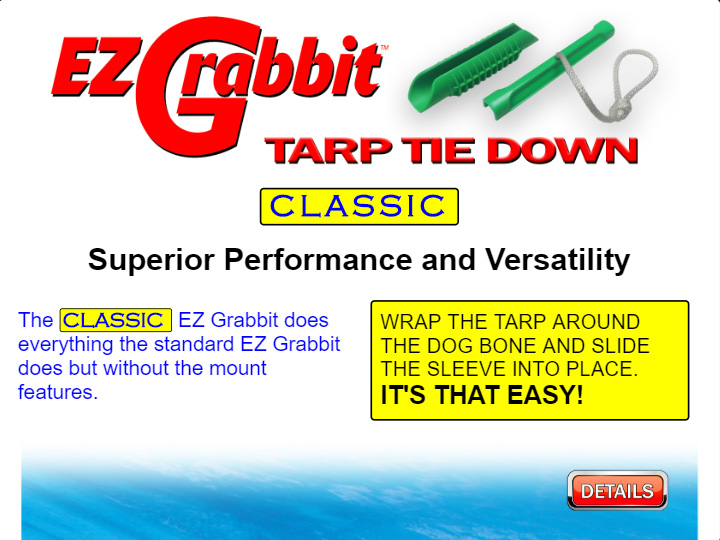
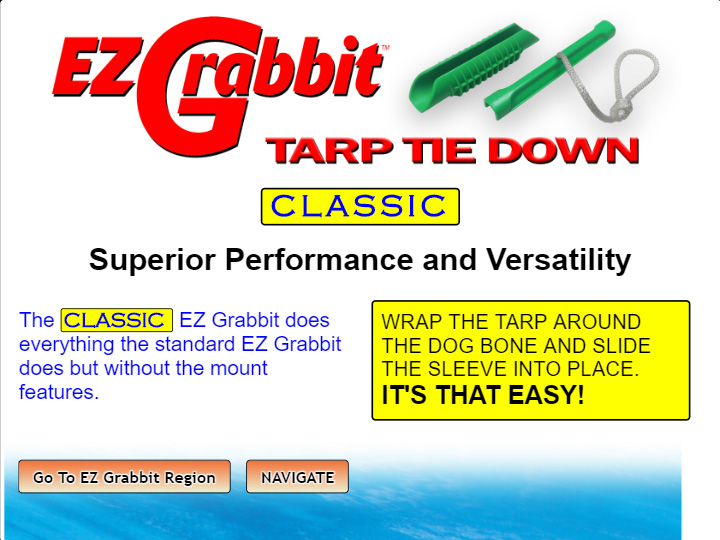
content add/edit and configure of view09 - classic EZ Grabbit

diff --git a/components/components08_11/tmpl_09/viewTmpl_09.html b/components/components08_11/tmpl_09/viewTmpl_09.html
@@ -1,44 +1,6 @@
-<style>
-#divA
-{
-font-size:1em;
-}    
+<link rel="stylesheet" type="text/css" href="css/vn-templateStyle1.css">
 
-.textStyle1
-{
-font-family:arial; 
-font-weight:bold; 
-color:black;
-}
-
-.textStyle2
-{
-font-family: 'Franklin Gothic Medium', 'Franklin Gothic', 'ITC Franklin Gothic', Arial, sans-serif;   
-color:red;
-}
-
-.textStyle3
-{
-font-family: 'Arial Rounded MT Bold', 'Helvetica Rounded', Arial, sans-serif;    
-}
-
-.textStyle4
-{
-font-family: Copperplate, 'Copperplate Gothic Light', fantasy;    
-}
-
-.imageStyle1:hover
-{
-background-color:black; 
-border-radius:10px;
-box-shadow: 1px 1px 15px #CCEDF2, 1px -1px 15px #CCEDF2, -1px 1px 15px #CCEDF2, -1px -1px 15px #CCEDF2,
-            1px 1px 25px #EAE2BB, 1px -1px 25px #EAE2BB, -1px 1px 25px #EAE2BB, -1px -1px 25px #EAE2BB,
-            1px 1px 25px #EAE2BB, 1px -1px 25px #EAE2BB, -1px 1px 25px #EAE2BB, -1px -1px 25px #EAE2BB;
-}
-    
-</style>
-
-<div id="divA">
+<div>
 <!-- Response Section 1 ************************************************************************************************************************************************-->
     <div style="text-align:center;">
         <img src="components/components08_11/tmpl_09/ttd-vn-ezg-logo-w-grn-device-1500x400.png" 
@@ -85,7 +47,7 @@ box-shadow: 1px 1px 15px #CCEDF2, 1px -1px 15px #CCEDF2, -1px 1px 15px #CCEDF2, 
                         color:blue;
                         {{$ctrl.rs2paddingright}};          /* AR_30.00_10.00 */
                        ">
-                The <span   class="textStyle4" 
+                The <span   class="textStyle5" 
                             style= "font-weight:bold; 
                                     background-color:yellow; 
                                     border:1px solid black; 
@@ -109,34 +71,63 @@ box-shadow: 1px 1px 15px #CCEDF2, 1px -1px 15px #CCEDF2, -1px 1px 15px #CCEDF2, 
 
 <!-- Response Section 3 ************************************************************************************************************************************************-->
     <div style="position:relative;
-                left:2.5%;
+                {{$ctrl.rs3fontsize1}};
                 ">
-        <!--src="https://www.tarptiedown.com/resources/ttd-vn-ezg-tarp-arc-1400x1400.jpg" -->
         <img    src="components/components08_11/tmpl_09/ttd-vn-ezg-keebler-1200x1020.jpg" 
-                alt="EZ Grabbit Tarp Tie Down Official Logo" 
-                title="EZ Grabbit Logo with Device" 
+                alt="EZ Grabbit Tarp Tie Down Composite with Keebler Pass backgrpund" 
+                title="EZ Grabbit Tarp Tie Down Composite with Keebler Pass backgrpund" 
                 style=" width:95%;"> 
-        <div style="position:absolute; 
-                    
-                    {{$ctrl.rs3positiontop1}}; /* AR_50_20*/
-                    /*top:20px;   */
-                    {{$ctrl.rs3positionleft1}};    /* AR_80_70 */
-                    /*left:70%;   */
-                    z-index:2;
-                    ">
-            
-            <a href="https://www.tarptiedown.com/ttd-vn/ttd-vn-ezg/index-ezg.html"> 
-                <img src="https://tarptiedown.com/resources/ttd-vn-button3-300x120.png"
-                     alt="button" 
-                     title="EZ Grabbit applications, specs, prices, videos, etc."
-                     class="imageStyle1"
-                     style="{{$ctrl.rs3width1}};     /* AR_150_70 */
-                            ">  
+        
+        
+        <div style="position:absolute;
+                    left:2%;
+                    {{$ctrl.rs3top1}};
+                   ">
+            <a  href="https://www.tarptiedown.com/ttd-vn/ttd-vn-ezg/index-ezg.html#/intro"
+                class="btnStyle2"
+                style= "{{$ctrl.rs3padding1}};
+                        text-decoration:none;
+                        font-weight:bold;
+                       "
+               > Go To EZ Grabbit Region
+                
             </a>
-            
-        </div>
-            
-    </div>    
+            <div class="btnStyle2" 
+                 ng-click="$ctrl.moreless2()"
+                 style="{{$ctrl.rs3padding1}};
+                        {{$ctrl.rs3marginleft1}};
+                        font-weight:bold;
+                       ">
+                     {{$ctrl.morelessText2}}
+            </div>
+            <div class="textBoxStyle2 textStyle3"
+                 ng-show="$ctrl.display2">
+                 
+                <table  style= "width:100%;">
+                    <tr><td><u>SELECTION</u>&nbsp;&nbsp;&nbsp;&nbsp;&nbsp;&nbsp;</td>
+                        <td><u>DESTINATION</u>
+                            <span   class= "youAreHere2">
+                                &nbsp;&nbsp;you are here&nbsp;&nbsp;
+                            </span>
+                        </td>
+                    </tr>
+                    <tr class="topMenuNav">  <td class="tdStyle">TTD Intro          </td><td class="tdStyle">Tarp Tie Down Home & intro </td></tr>
+                    <tr class="topMenuNav">  <td class="tdStyle">Price/Buy          </td><td class="tdStyle">Product pricing and store  </td></tr>
+                    <tr class="topMenuNav">  <td class="tdStyle">Products           </td><td class="tdStyle">Tarp Tie Down products     </td></tr>
+                    <tr class="topMenuNav">  <td class="tdStyle">Reviews            </td><td class="tdStyle">Customer feedback          </td></tr>
+                    <tr class="hyperMenuNav"><td class="tdStyle">Button A  Thumb 1  </td><td class="tdStyle">Standard EZ Grabbit        </td></tr>
+                    <tr class="hyperMenuNav"><td class="tdStyle">Button A  Thumb 2  </td><td class="tdStyle">Long Grabbit               </td></tr>
+                    <tr class="hyperMenuNav"><td class="tdStyle">Button A  Thumb 3  </td><td class="tdStyle">Mini Grabbit               </td></tr>
+                    <tr class="hyperMenuNav"><td class="tdStyle">Button A  Thumb 4  </td><td class="tdStyle">EZ Adjust Rope Adjuster    </td></tr>
+                    <tr class="hyperMenuNav"><td class="tdStyle">Button B  Thumb 1  </td><td class="tdStyle">RockBuster Ground Stake    </td></tr>
+                    <tr class="hyperMenuNav"><td class="tdStyle">Button B  Thumb 2  </td><td class="tdStyle">Bag Grabbit Bag Handle     </td></tr>
+                    <tr class="hyperMenuNav"><td class="tdStyle">Button B  Thumb 3  </td><td class="tdStyle">The EZ Grabbit Keeper      </td></tr>
+                    <tr class="hyperMenuNav"><td class="tdStyle">Button B  Thumb 4  </td><td class="tdStyle">Carry/Duffle Bag           </td></tr>
+                    <tr class="hyperMenuNav"><td class="tdStyle">Button C  Thumb 1  </td><td class="tdStyle">Tent Poles                 </td></tr>
+                    <tr class="youAreHere">  <td class="tdStyle">Button C  Thumb 2  </td><td class="tdStyle">Classic EZ Grabbit         </td></tr>
 
-     
+                </table>
+            </div>  
+        </div>
+    </div>    
 </div>

diff --git a/components/components08_11/components08_11.js b/components/components08_11/components08_11.js
@@ -76,10 +76,25 @@ angular.module('viewNav')
             self09.rs2fontsize3 = "font-size:" + ((0.00165)*(viewWidth) + 0.07294) + "em";
             
             // Response Section 3
-            self09.rs3positiontop1 = "top:" + ((0.03704)*(viewWidth)+6.66667) + "px";
-            self09.rs3positionleft1 = "left:" + ((0.01235)*(viewWidth)+65.55556) + "%";
-            self09.rs3width1 = "width:" + ((0.09877)*(viewWidth)+34.44444) + "px";
+            // AR Response Section 3
+            self09.rs3fontsize1 = "font-size:" + ((0.00095)*(viewWidth)+0.38778) + "em";        /* AR_1.50_0.73 */
+            self09.rs3top1 = "top:" + ((0.01852)*(viewWidth)+8.33333) + "px";                   /* AR_30.00_15.00 */      
+            self09.rs3marginleft1= "margin-left:" + ((0.01852)*(viewWidth)-1.66667) + "px";     /* AR_20.00_5.00 */
+            self09.rs3padding1 = "padding:" + ((0.00617)*(viewWidth)+2.77778) + "px " + ((0.01235)*(viewWidth)+5.55556) + "px";    /* AR_10.00_5.00 */ /* AR_20.01_10.00 */
             
+            // Sets mode of the "NAVIGATE" button
+            self09.display2 = false;
+            self09.morelessText2 = "NAVIGATE";
+            self09.moreless2 = function(){
+                if(self09.morelessText2 === "NAVIGATE"){
+                    self09.morelessText2 = "HIDE NAVIGATE";
+                    self09.display2 = true;
+                } 
+                else {
+                    self09.morelessText2 = "NAVIGATE";
+                    self09.display2 = false;
+                }
+            };
             
             compFactory.logView(09);
         }]

diff --git a/controller-client.js b/controller-client.js
@@ -289,7 +289,7 @@ angular.module('viewNav')
 //***********************************************************************************************************************************************************            
 // $state.go('some-view') loads the desired view as the default view upon load               
         var stateGo = (function(){    
-            $state.go('view08');
+            $state.go('view09');
 /*             
                 // Use this setTimeout if intializing with a template. If you initialize with a template only the first thumbnail group will show properly. If
                 // it's a template (view04 and up) then the proper thumbnail group won't show unless you call the stateHistory method and send it the proper parameters
